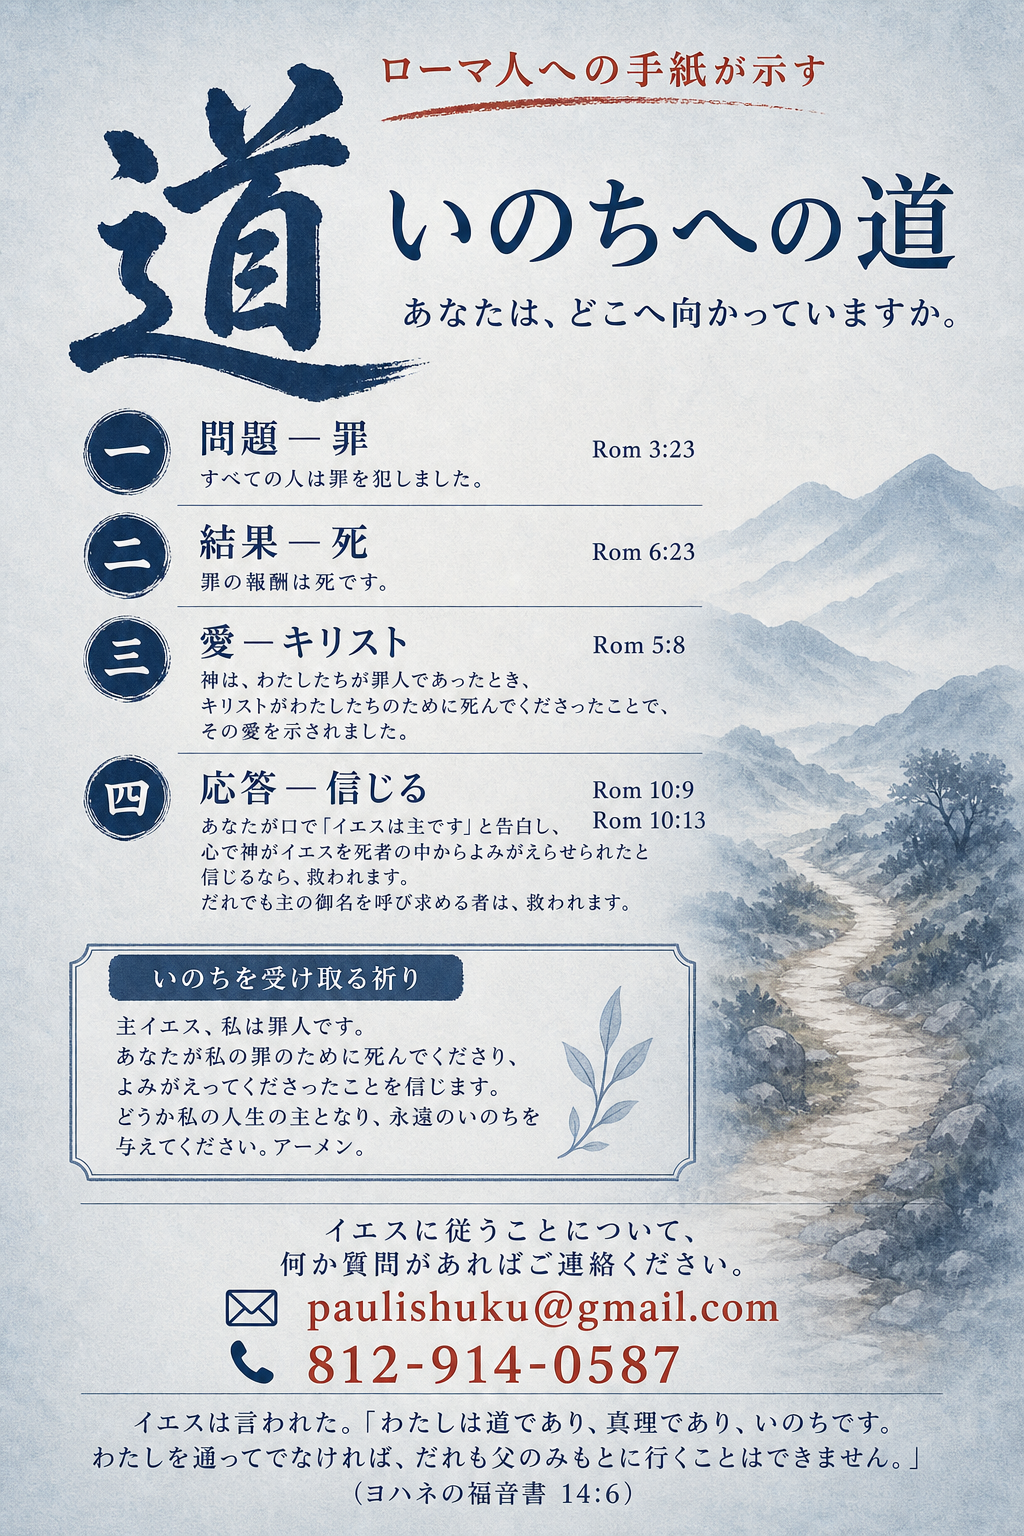
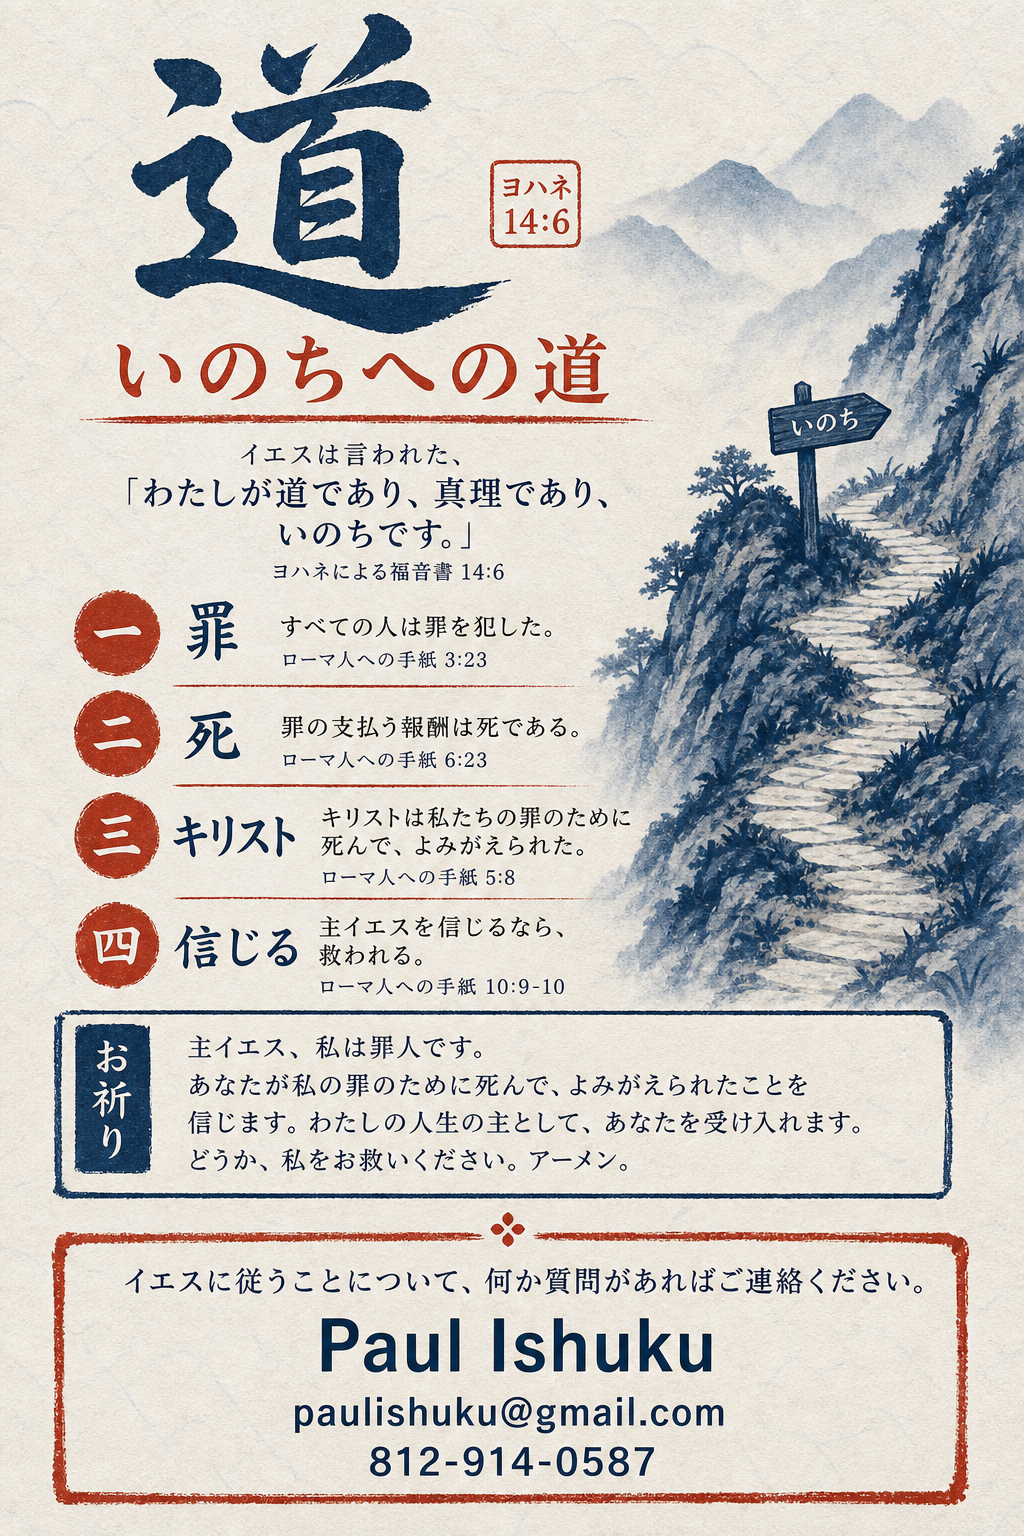
Add Paul Ishuku name to contact block on both tract sides
Name, email, and phone are now clearly shown with the reach-out invite on Japanese and English faces.

diff --git a/romans-road-tract/index.html b/romans-road-tract/index.html
@@ -109,6 +109,7 @@
 
             <section class="contact animate-in delay-8">
               <p class="contact__invite">イエスに従うことについて、何か質問があればご連絡ください。</p>
+              <p class="contact__name">Paul Ishuku</p>
               <p class="contact__line"><a href="mailto:paulishuku@gmail.com">paulishuku@gmail.com</a></p>
               <p class="contact__line"><a href="tel:+18129140587">812-914-0587</a></p>
             </section>
@@ -195,6 +196,7 @@
 
             <section class="contact animate-in delay-8">
               <p class="contact__invite">If you have any questions about how to follow Jesus, reach out to me!</p>
+              <p class="contact__name">Paul Ishuku</p>
               <p class="contact__line"><a href="mailto:paulishuku@gmail.com">paulishuku@gmail.com</a></p>
               <p class="contact__line"><a href="tel:+18129140587">812-914-0587</a></p>
             </section>

diff --git a/romans-road-tract/styles.css b/romans-road-tract/styles.css
@@ -479,9 +479,9 @@ body {
 }
 
 .contact__invite {
-  margin: 0 0 0.28rem;
-  font-size: 0.6rem;
-  line-height: 1.45;
+  margin: 0 0 0.22rem;
+  font-size: 0.58rem;
+  line-height: 1.4;
   color: var(--ai-mid);
   font-weight: 500;
   letter-spacing: 0.02em;
@@ -489,9 +489,18 @@ body {
 
 .tract--en .contact__invite {
   font-family: var(--font-en-display);
-  font-size: 0.72rem;
+  font-size: 0.7rem;
   font-style: italic;
   letter-spacing: 0.02em;
+}
+
+.contact__name {
+  margin: 0 0 0.12rem;
+  font-family: var(--font-en-display);
+  font-size: 0.85rem;
+  font-weight: 700;
+  letter-spacing: 0.06em;
+  color: var(--ai);
 }
 
 .contact__line {

diff --git a/romans-road-tract/shot-jp.html b/romans-road-tract/shot-jp.html
@@ -97,6 +97,7 @@
         </section>
         <section class="contact">
           <p class="contact__invite">イエスに従うことについて、何か質問があればご連絡ください。</p>
+          <p class="contact__name">Paul Ishuku</p>
           <p class="contact__line"><a href="mailto:paulishuku@gmail.com">paulishuku@gmail.com</a></p>
           <p class="contact__line"><a href="tel:+18129140587">812-914-0587</a></p>
         </section>

diff --git a/romans-road-tract/shot-en.html b/romans-road-tract/shot-en.html
@@ -97,6 +97,7 @@
         </section>
         <section class="contact">
           <p class="contact__invite">If you have any questions about how to follow Jesus, reach out to me!</p>
+          <p class="contact__name">Paul Ishuku</p>
           <p class="contact__line"><a href="mailto:paulishuku@gmail.com">paulishuku@gmail.com</a></p>
           <p class="contact__line"><a href="tel:+18129140587">812-914-0587</a></p>
         </section>
